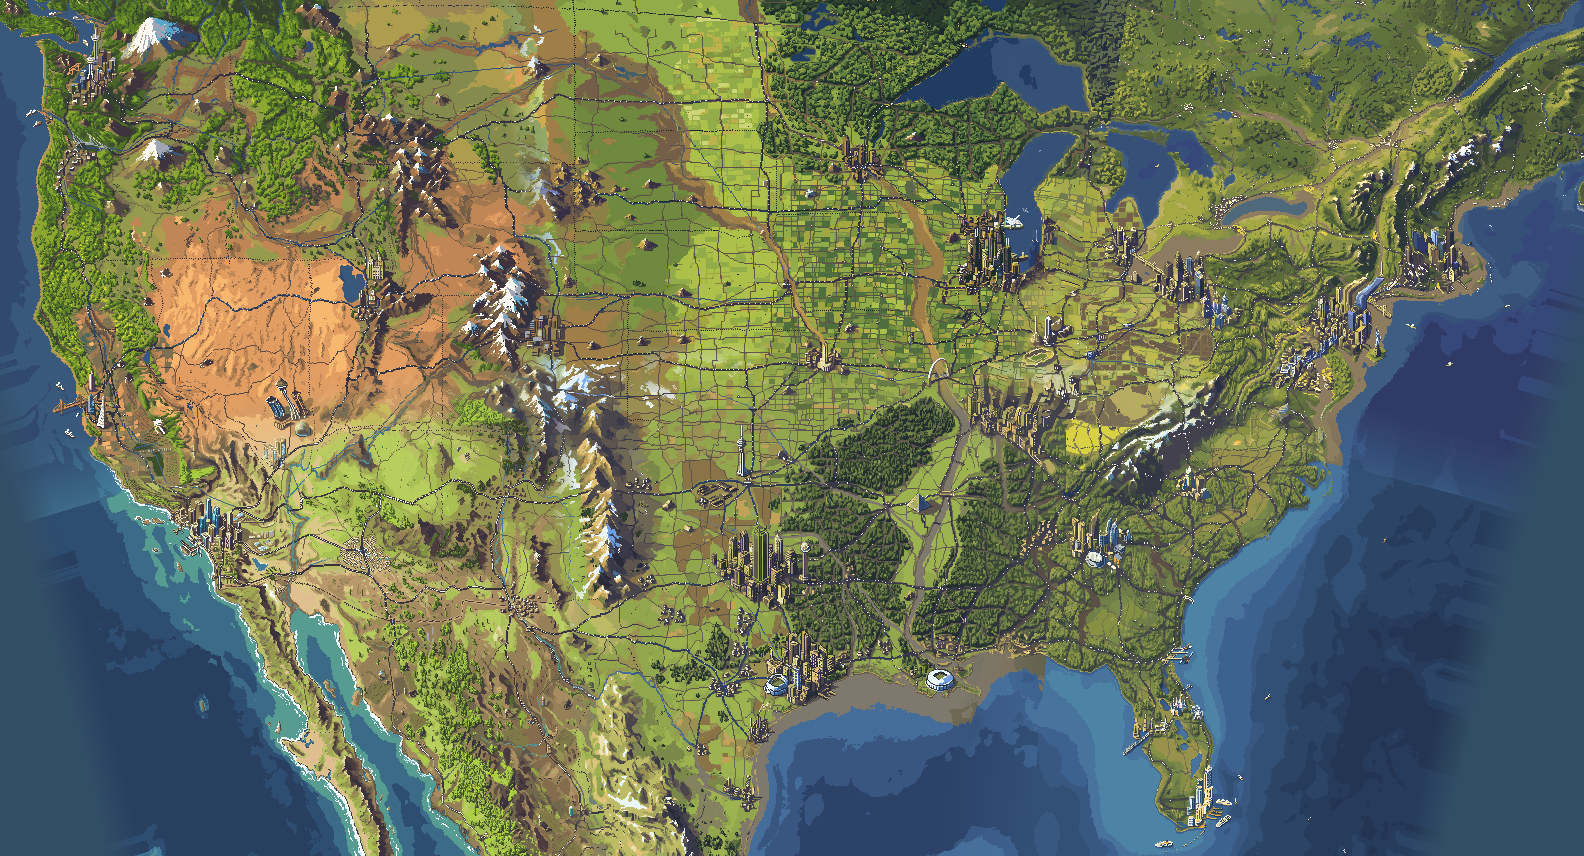
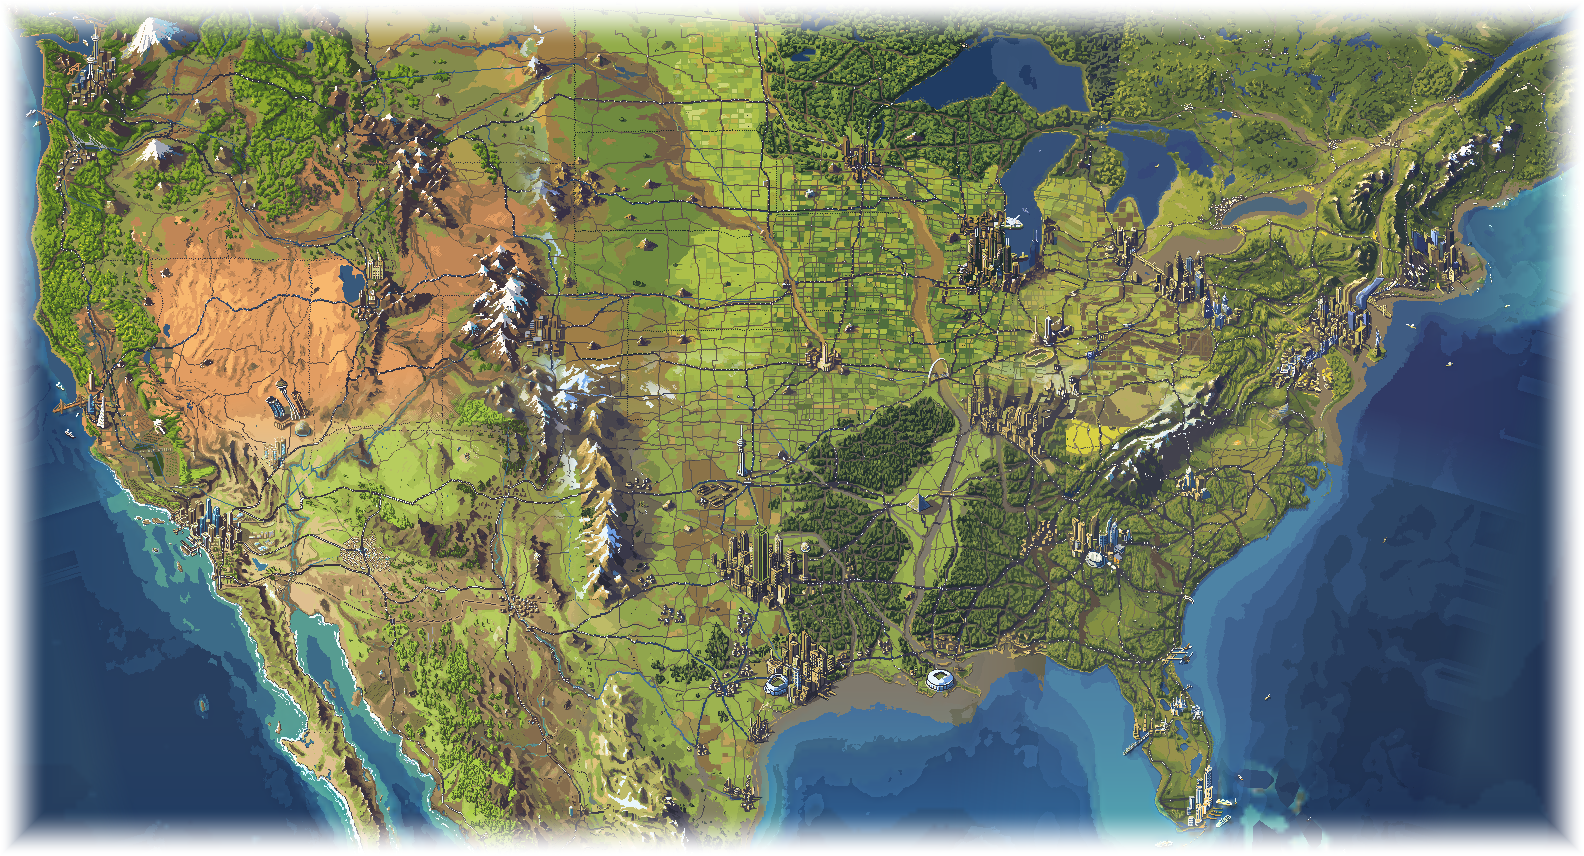
Map: a painted surround per season, so a phone at Fit shows sea and land to its edges
tools/map-surround.py traces the coasts beyond the map (the Pacific and Atlantic, the Gulf,
the Caribbean and the Bahamas' banks, southern Canada with Hudson Bay, Mexico and Central
America) at quarter scale, has PixelLab paint each season over that base, and holds the
painter's greens to the map's own. Each surround-<season>.png ships at the map's own scale,
2000×1784 (each painted pixel four across and down), so mapview draws it one to one with
the map centred in it. The l0 maps' edges are feathered over 48 px and their pale sea haze
drawn toward the surround over 170 px; mapview now draws the surround wherever that faded
edge is on screen too, which includes the panning limits when zoomed in. The untouched
paintings, bases and painter outputs are kept in surround-src/.

Changed region(s): [[0.0, 0.0, 1.0, 1.0]]

diff --git a/apps/web/src/mapview.ts b/apps/web/src/mapview.ts
@@ -459,9 +459,11 @@ export function drawMap(now: number): void {
   const lvl = mapLevel(season, k);
   ctx.fillStyle = lvl ? edgeShade(lvl.img) : PAL.seaD;
   ctx.fillRect(0, 0, W, H);
-  // The world past the map's edge (Graphics' surround, per season), wherever the map doesn't reach the window's edge.
+  // The world past the map's edge (Graphics' surround, per season), wherever the map doesn't reach the window's edge;
+  // the painting's last 48 px fade into it (tools/map-surround.py), so it's under them too, even at the panning limits.
   const sur = mapSurround(season);
-  if (sur && (panX < 0 || panY < 0 || art.W * k - panX < W || art.H * k - panY < H)) {
+  const fade = 48 * k;
+  if (sur && (panX < fade || panY < fade || art.W * k - panX < W + fade || art.H * k - panY < H + fade)) {
     ctx.imageSmoothingEnabled = !Number.isInteger(k);
     ctx.setTransform(k, 0, 0, k, -panX, -panY);
     ctx.drawImage(sur, -(sur.width - MAP_W) / 2, -(sur.height - MAP_H) / 2);

diff --git a/apps/web/tools/map-surround.py b/apps/web/tools/map-surround.py
@@ -1,0 +1,347 @@
+#!/usr/bin/env python3
+"""The world around the map (Jeff, 2026-11-02: "When zoomed all the way out we should see more of the world / ocean,
+not a blank gray background").
+
+The painted map (assets/map/l0-<season>.png, 1584 × 856) ends at the lower 48's frame, so a tall phone at Fit shows
+grey above and below it. This paints the surround, one picture per season at a quarter of the map's resolution (it's
+the edge of the view, seen small): the Pacific and the Atlantic, the Gulf of Mexico and the Caribbean with Cuba,
+Hispaniola, Jamaica, Puerto Rico and the Bahamas on their shallow banks, Mexico and Central America to the south,
+Canada with Hudson Bay and Labrador to the north. The coasts are traced here, coarse (tools' geo.ts has only the US and
+its rim), in the map's own projection; the painted map goes in the middle, shrunk; PixelLab's Pro editor repaints the
+whole in the map's style and season, keeping the coasts; then the rim right round the map is eased back into the map's
+own edge pixels so the seam doesn't show: the map's own edge is feathered (its last 48 pixels fade out, alpha baked
+into assets/map/l0-<season>.png), so where the two meet the surround shows through and nothing draws a line.
+
+The result registers to the map like this: painted pixel (bx, by) covers map pixels (4·bx − 208 … 4·bx − 205,
+4·by − 464 … 4·by − 461). It ships at the map's own scale, each painted pixel four across and four down (500 × 446 →
+2000 × 1784), so mapview draws it one to one at map coordinates (−208, −464), the map centred in it with equal
+margins, behind the map, which covers its middle exactly.
+
+  map-surround.py <season> [--seed N] [--base-only] [--feather-only]
+      → assets/map/surround-<season>.png (the base and the editor's output in assets/map/surround-src), and the map's
+        feathered edge
+"""
+import importlib.util
+import os
+import re
+import subprocess
+import sys
+
+import numpy as np
+
+HERE = os.path.dirname(os.path.abspath(__file__))
+spec = importlib.util.spec_from_file_location("pm", os.path.join(HERE, "paint-map.py"))
+pm = importlib.util.module_from_spec(spec)
+spec.loader.exec_module(pm)  # type: ignore[union-attr]
+
+MAPS = os.path.join(HERE, "..", "assets", "map")
+GEO = os.path.join(HERE, "..", "src", "geo.ts")
+W0, H0 = 1584, 856  # the map
+SCALE = 4
+MX, MY = 208, 464  # the surround's reach beyond the map, in map pixels
+BW, BH = (W0 + 2 * MX) // SCALE, (H0 + 2 * MY) // SCALE  # 500 × 446
+
+
+def geo(name: str) -> list:
+    s = open(GEO).read()
+    m = re.search(r"export const " + name + r"[^=]*=\s*\[(.*?)\];", s, re.S)
+    return [(float(a), float(b)) for a, b in re.findall(r"\[\s*(-?[\d.]+)\s*,\s*(-?[\d.]+)\s*\]", m.group(1))]
+
+
+def projection():
+    """map.ts's fitProjection for the 1584 × 856 map, into surround pixels."""
+    rad = np.pi / 180
+    kx = np.cos(37.5 * rad)
+    flat = lambda lon, lat: ((lon * rad + 96 * rad) * kx, lat * rad)
+    ring = geo("PACIFIC") + geo("MEX_BORDER") + geo("GULF_ATLANTIC") + geo("CANADA_BORDER")
+    pts = [flat(lo, la) for lo, la in ring]
+    minx, maxx = min(p[0] for p in pts), max(p[0] for p in pts)
+    miny, maxy = min(p[1] for p in pts), max(p[1] for p in pts)
+    margin = max(6, round(min(W0, H0) * 0.03))
+    scale = min((W0 - 2 * margin) / (maxx - minx), (H0 - 2 * margin) / (maxy - miny))
+    offx = (W0 - (maxx - minx) * scale) / 2
+    offy = (H0 - (maxy - miny) * scale) / 2
+
+    def project(lon, lat):
+        x, y = flat(lon, lat)
+        return ((offx + (x - minx) * scale + MX) / SCALE, (offy + (maxy - y) * scale + MY) / SCALE)
+
+    return project
+
+
+# Coasts beyond geo.ts, traced coarse (lon, lat).
+NORTH_PACIFIC = [(-150, 75), (-140, 60), (-136.5, 58.5), (-134, 56.5), (-131.5, 54.5)]
+SOUTH_PACIFIC = [(-106.4, 23.2), (-105.6, 21.9), (-105.3, 20.6), (-104.9, 19.4), (-104.3, 19.1), (-103.4, 18.3), (-101.9, 17.8),
+                 (-100.5, 17.2), (-99.9, 16.8), (-98.5, 16.3), (-97.0, 15.8), (-96.0, 15.7), (-95.1, 16.2), (-94.0, 16.2), (-93.2, 15.6),
+                 (-92.2, 14.6), (-91.3, 13.9), (-90.0, 13.9), (-89.2, 13.5), (-88.0, 13.2), (-87.4, 13.0), (-86.7, 12.2), (-86.0, 11.6),
+                 (-85.7, 11.1), (-85.9, 10.6), (-85.7, 9.9), (-84.6, 9.5), (-83.5, 8.5), (-82.9, 8.0), (-82.5, 4.0), (-77.0, 4.0),
+                 (-77.5, 8.8), (-79.5, 9.6), (-81.5, 9.0), (-82.8, 9.5)]
+CARIBBEAN = [(-83.7, 10.9), (-83.7, 11.6), (-83.6, 12.5), (-83.5, 13.6), (-83.3, 14.5), (-83.2, 15.0), (-84.0, 15.4), (-85.0, 15.9),
+             (-86.5, 15.8), (-87.8, 15.8), (-88.2, 15.7), (-88.5, 16.3), (-88.2, 17.0), (-88.3, 17.9), (-88.0, 18.5), (-87.6, 19.5),
+             (-87.4, 20.3), (-86.8, 21.2), (-87.1, 21.6), (-88.2, 21.5), (-89.5, 21.3), (-90.4, 21.1), (-90.5, 20.0), (-90.6, 19.4),
+             (-91.5, 18.6), (-92.7, 18.6), (-94.0, 18.3), (-94.8, 18.6), (-95.8, 18.8), (-96.4, 19.5), (-96.9, 20.4), (-97.4, 21.2),
+             (-97.8, 22.1), (-97.8, 23.0), (-97.8, 24.2), (-97.5, 25.0)]
+ATLANTIC_CANADA = [(-66.0, 45.3), (-65.7, 44.0), (-65.4, 43.5), (-63.5, 44.4), (-61.5, 45.0), (-60.0, 45.8), (-61.0, 47.0),
+                   (-64.5, 47.8), (-64.2, 48.9), (-66.5, 49.2), (-68.7, 48.6), (-70.8, 47.1), (-69.8, 48.2), (-67.5, 49.4),
+                   (-65.0, 50.2), (-61.0, 50.2), (-59.0, 50.6), (-57.2, 51.4), (-55.8, 52.3), (-56.5, 53.8), (-58.5, 54.5),
+                   (-60.5, 55.8), (-61.6, 56.9), (-62.4, 58.0), (-63.5, 59.0), (-64.6, 60.3), (-65.0, 61.0), (-60.0, 75.0)]
+CONTINENT = (NORTH_PACIFIC + geo("BC_COAST") + geo("PACIFIC") + geo("MEXICO")[:-3] + SOUTH_PACIFIC + CARIBBEAN
+             + geo("GULF_ATLANTIC") + ATLANTIC_CANADA)
+HUDSON = [(-80.0, 51.3), (-79.0, 51.6), (-78.8, 52.8), (-79.0, 54.4), (-77.2, 55.6), (-76.8, 57.0), (-77.4, 58.3), (-78.0, 59.5),
+          (-77.6, 60.6), (-78.2, 62.2), (-77.0, 63.5), (-78.0, 66.0), (-90.0, 66.0), (-93.5, 64.0), (-94.0, 62.0), (-94.8, 60.0),
+          (-94.2, 58.8), (-92.5, 57.2), (-90.0, 57.0), (-88.0, 56.5), (-85.0, 55.3), (-82.3, 55.2), (-82.2, 53.0), (-81.4, 52.2)]
+WINNIPEG = [(-96.8, 50.4), (-96.3, 51.5), (-97.0, 52.8), (-98.0, 53.8), (-99.3, 53.4), (-98.5, 52.0), (-97.2, 50.6)]
+ISLANDS = {
+    "cuba": [(-84.95, 21.86), (-84.0, 22.5), (-83.0, 22.95), (-82.0, 23.15), (-80.6, 23.1), (-79.3, 22.4), (-77.7, 21.8), (-76.0, 21.2),
+             (-74.5, 20.3), (-74.1, 20.2), (-75.6, 19.9), (-77.5, 19.85), (-77.1, 20.6), (-79.6, 21.6), (-81.2, 22.0), (-83.5, 22.2),
+             (-84.4, 21.8)],
+    "hispaniola": [(-74.45, 18.45), (-73.4, 19.65), (-72.8, 19.9), (-71.6, 19.9), (-70.0, 19.7), (-69.0, 19.3), (-68.35, 18.6),
+                   (-69.0, 18.4), (-70.0, 18.2), (-71.1, 17.6), (-72.0, 18.1), (-73.4, 18.2)],
+    "jamaica": [(-78.35, 18.45), (-77.4, 18.5), (-76.35, 18.15), (-76.8, 17.9), (-77.8, 17.85)],
+    "puerto rico": [(-67.25, 18.5), (-65.6, 18.45), (-65.6, 18.0), (-67.2, 17.95)],
+    "grand bahama": [(-78.98, 26.75), (-77.9, 26.65), (-77.95, 26.5), (-78.95, 26.55)],
+    "abaco": [(-77.25, 26.95), (-76.95, 26.4), (-77.2, 25.9), (-77.45, 26.4)],
+    "andros": [(-78.25, 25.2), (-77.7, 24.9), (-77.6, 24.2), (-77.9, 23.8), (-78.3, 24.4)],
+    "eleuthera": [(-76.7, 25.5), (-76.1, 25.1), (-76.15, 24.65), (-76.4, 25.0)],
+    "long island": [(-75.4, 23.6), (-75.0, 23.0), (-74.85, 23.1), (-75.25, 23.7)],
+    "inagua": [(-73.75, 21.2), (-73.05, 21.15), (-73.3, 20.9)],
+    "haida gwaii": [(-133.1, 54.2), (-131.8, 53.9), (-131.0, 52.2), (-131.5, 52.0), (-132.6, 53.2)],
+    "newfoundland": [(-59.4, 47.6), (-58.0, 48.4), (-58.9, 49.2), (-57.4, 50.8), (-55.6, 51.6), (-55.4, 50.0), (-53.6, 49.2),
+                     (-52.6, 47.6), (-53.6, 46.7), (-55.9, 47.1), (-57.6, 47.6)],
+    "pei": [(-64.4, 46.6), (-63.0, 46.5), (-62.0, 46.4), (-62.5, 46.1), (-64.0, 46.2)],
+}
+BANKS = [  # shallow water, turquoise
+    [(-79.3, 25.9), (-78.9, 25.6), (-77.9, 25.3), (-76.6, 23.8), (-75.5, 22.8), (-75.6, 22.3), (-77.5, 22.5), (-78.9, 23.1),
+     (-80.0, 23.8), (-79.4, 24.6)],
+    [(-79.2, 27.1), (-77.0, 27.3), (-76.8, 26.2), (-78.8, 26.3)],
+    [(-76.7, 25.7), (-75.9, 25.4), (-74.9, 22.9), (-75.6, 22.9), (-76.4, 24.5)],
+    [(-73.9, 21.4), (-72.9, 21.3), (-72.9, 20.8), (-73.9, 20.8)],
+]
+SEASON = {
+    "winter": "deep winter: snow lies over Canada and the northern woods, Hudson Bay and the northern lakes frozen white, "
+              "bare grey forest, dry brown grass and snow-dusted mountains in northern Mexico, green tropical forest in the far "
+              "south, low cold blue light",
+    "spring": "spring: Canada's forests fresh green with the last snow on the far northern hills, lakes thawing, Mexico "
+              "greening after rain, bright tropical green in the south, soft clear light",
+    "summer": "high summer: deep green boreal forest across Canada, blue lakes, golden dry hills and desert in northern Mexico, "
+              "lush green jungle in Central America and the islands, bright warm light",
+    "autumn": "autumn: Canada's forests orange, red and gold among dark green pines, the first snow on the far north, dry "
+              "tawny hills in Mexico, green in the tropical south, warm low light",
+}
+LAND = {  # base colours: Canada, northern Mexico, the tropics
+    "winter": ((205, 214, 228), (176, 146, 110), (70, 112, 70)),
+    "spring": ((88, 124, 78), (170, 150, 100), (66, 122, 66)),
+    "summer": ((62, 104, 60), (190, 156, 104), (60, 116, 60)),
+    "autumn": ((168, 104, 52), (182, 140, 94), (68, 114, 64)),
+}
+SEA = np.array([40, 56, 92], float)
+DEEP = np.array([28, 36, 66], float)
+SHALLOW = np.array([72, 150, 166], float)
+
+
+def fill(mask: np.ndarray, poly, project) -> None:
+    """A polygon (lon, lat) filled into a boolean mask, by even-odd scanlines at pixel centres."""
+    pts = [project(lo, la) for lo, la in poly]
+    h, w = mask.shape
+    for y in range(h):
+        cy = y + 0.5
+        xs = []
+        for (x0, y0), (x1, y1) in zip(pts, pts[1:] + pts[:1]):
+            if (y0 <= cy) != (y1 <= cy):
+                xs.append(x0 + (cy - y0) / (y1 - y0) * (x1 - x0))
+        xs.sort()
+        for a, b in zip(xs[::2], xs[1::2]):
+            l, r = max(0, int(np.ceil(a - 0.5))), min(w - 1, int(np.floor(b - 0.5)))
+            if r >= l:
+                mask[y, l : r + 1] ^= True
+
+
+def base(season: str) -> tuple:
+    project = projection()
+    land = np.zeros((BH, BW), bool)
+    fill(land, CONTINENT, project)
+    for poly in ISLANDS.values():
+        isle = np.zeros_like(land)
+        fill(isle, poly, project)
+        land |= isle
+    water = np.zeros_like(land)
+    for poly in (HUDSON, WINNIPEG):
+        fill(water, poly, project)
+    land &= ~water
+    banks = np.zeros_like(land)
+    for poly in BANKS:
+        b = np.zeros_like(land)
+        fill(b, poly, project)
+        banks |= b
+    ys, xs = np.mgrid[0:BH, 0:BW]
+    rng = np.random.default_rng(7)
+    grain = rng.normal(0, 1, (BH, BW))
+    # Sea: deeper away from the coasts (a cheap distance, by repeated growing).
+    near = land.copy()
+    dist = np.full(land.shape, 12.0)
+    for d in range(12):
+        dist[near & (dist > d)] = d
+        g = near.copy()
+        g[1:] |= near[:-1]; g[:-1] |= near[1:]; g[:, 1:] |= near[:, :-1]; g[:, :-1] |= near[:, 1:]
+        near = g
+    f = (np.clip(dist, 0, 12) / 12)[..., None]
+    img = SEA * (1 - f) + DEEP * f + grain[..., None] * 3
+    img[banks & ~land] = SHALLOW + grain[banks & ~land][:, None] * 6
+    # Land: Canada above the map's latitude band, the tropics below 20° N, northern Mexico between.
+    north, mex, trop = (np.array(c, float) for c in LAND[season])
+    lat = 49.8 - (ys - (MY / SCALE)) * (26.1 / (H0 / SCALE))  # latitude by row, near enough
+    t = np.clip((lat - 17.0) / 6.0, 0, 1)[..., None]
+    southland = trop * (1 - t) + mex * t
+    landcol = np.where((lat > 40)[..., None], north, southland) + grain[..., None] * 9
+    img = np.where(land[..., None], landcol, img)
+    if season == "winter":
+        img[water] = np.array([214, 222, 236]) + grain[water][:, None] * 4  # frozen
+    else:
+        img[water] = SEA + grain[water][:, None] * 3
+    out = np.zeros((BH, BW, 4), np.uint8)
+    out[..., :3] = np.clip(img, 0, 255)
+    out[..., 3] = 255
+    # The painted map in the middle, shrunk.
+    m = pm.read_png(os.path.join(MAPS, f"l0-{season}.png"))
+    small = m.reshape(H0 // SCALE, SCALE, W0 // SCALE, SCALE, 4).mean((1, 3)).round().astype(np.uint8)
+    x0, y0 = MX // SCALE, MY // SCALE
+    out[y0 : y0 + small.shape[0], x0 : x0 + small.shape[1]] = small
+    return out, small
+
+
+FEATHER = 48  # map pixels over which the map's edge fades into the surround
+
+
+HAZE = 170  # map pixels: how far in from its frame the painting's sea fades pale
+
+
+def feather(season: str, painted: np.ndarray) -> None:
+    """The map's edge made to meet the surround: over the sea in its outer HAZE pixels the painting's pale frame haze
+    is drawn toward the surround's sea (the painted texture kept, the land left alone), and its last FEATHER pixels fade
+    out (alpha from the distance to the edge, so it comes out the same however often it runs). Reads the untouched
+    painting from surround-src/l0-<season>.png, saved there the first time."""
+    path = os.path.join(MAPS, f"l0-{season}.png")
+    keep = os.path.join(MAPS, "surround-src", f"l0-{season}.png")
+    if not os.path.exists(keep):
+        pm.write_png(keep, pm.read_png(path))
+    m = pm.read_png(keep).copy()
+    ys, xs = np.mgrid[0:H0, 0:W0]
+    d = np.minimum(np.minimum(xs, W0 - 1 - xs), np.minimum(ys, H0 - 1 - ys)).astype(float)
+    # Where the sea is: off the continent and its islands, traced in map pixels.
+    project = projection()
+    to_map = lambda lon, lat: tuple(v * SCALE - o for v, o in zip(project(lon, lat), (MX, MY)))
+    land = np.zeros((H0, W0), bool)
+    fill(land, CONTINENT, to_map)
+    for poly in ISLANDS.values():
+        isle = np.zeros_like(land)
+        fill(isle, poly, to_map)
+        land |= isle
+    grown = land.copy()
+    for _ in range(6):  # keep clear of the coasts
+        g = grown.copy()
+        g[1:] |= grown[:-1]; g[:-1] |= grown[1:]; g[:, 1:] |= grown[:, :-1]; g[:, :-1] |= grown[:, 1:]
+        grown = g
+    sea = ~grown & (d < HAZE)
+    sur = painted[..., :3].astype(float)
+    sx = np.clip((xs + MX) / SCALE - 0.5, 0, BW - 1.001)
+    sy = np.clip((ys + MY) / SCALE - 0.5, 0, BH - 1.001)
+    ix, iy = sx.astype(int), sy.astype(int)
+    fx, fy = (sx - ix)[..., None], (sy - iy)[..., None]
+    under = (sur[iy, ix] * (1 - fx) * (1 - fy) + sur[iy, ix + 1] * fx * (1 - fy) + sur[iy + 1, ix] * (1 - fx) * fy
+             + sur[iy + 1, ix + 1] * fx * fy)
+    w = (np.clip(1 - d / HAZE, 0, 1) ** 1.4)[..., None] * 0.9
+    # The texture stays: only the colour's local level moves, by the difference between the surround and the
+    # painting's own neighbourhood average, weighted.
+    mine = m[..., :3].astype(float)
+    r = 7
+    c = np.pad(mine, ((r + 1, r), (r + 1, r), (0, 0)), mode="edge").cumsum(0).cumsum(1)
+    k = 2 * r + 1
+    avg = (c[k:, k:] - c[:-k, k:] - c[k:, :-k] + c[:-k, :-k]) / (k * k)
+    shift = (under - avg) * w
+    m[..., :3] = np.where(sea[..., None], np.clip(mine + shift, 0, 255), mine).round().astype(np.uint8)
+    t = np.clip((d + 0.5) / FEATHER, 0, 1)
+    m[..., 3] = (t * t * (3 - 2 * t) * 255).round().astype(np.uint8)
+    pm.write_png(path, m)
+
+
+def tame(season: str, painted: np.ndarray) -> np.ndarray:
+    """The painter's greens held to the map's own: no green in the surround more saturated than the season's map uses
+    (summer's Yucatán came back a loud lime), its lightness kept."""
+    m = pm.read_png(os.path.join(MAPS, "surround-src", f"l0-{season}.png"))[..., :3].astype(float)
+    chroma = lambda a: a.max(-1) - a.min(-1)
+    green = lambda a: a[..., 1] - np.maximum(a[..., 0], a[..., 2]) > 0.3 * chroma(a)  # not the sea's cyan glints
+    cap = np.percentile(chroma(m)[green(m)], 99.5)
+    out = painted.copy()
+    px = out[..., :3].astype(float)
+    grey = px.mean(-1, keepdims=True)
+    k = np.where(green(px) & (chroma(px) > cap), cap / np.maximum(chroma(px), 1), 1)[..., None]
+    out[..., :3] = (grey + (px - grey) * k).round().clip(0, 255).astype(np.uint8)
+    return out
+
+
+def ship(season: str, painted: np.ndarray) -> None:
+    """The surround at the map's own scale, each painted pixel SCALE across and down, and the map's edge fed into it."""
+    pm.write_png(os.path.join(MAPS, f"surround-{season}.png"), np.repeat(np.repeat(painted, SCALE, 0), SCALE, 1))
+    feather(season, painted)
+
+
+def ease(painted: np.ndarray, small: np.ndarray) -> np.ndarray:
+    """(Unused since the map's edge is feathered: the map's own shrunk pixels back in the middle, eased outward.)"""
+    out = painted[..., :4].copy()
+    out[..., 3] = 255
+    x0, y0 = MX // SCALE, MY // SCALE
+    h, w = small.shape[:2]
+    for d in range(1, 7):
+        k = 1 - d / 7
+        for (ya, yb, xa, xb, src) in (
+            (y0 - d, y0 - d + 1, x0, x0 + w, small[0:1]),
+            (y0 + h + d - 1, y0 + h + d, x0, x0 + w, small[-1:]),
+            (y0, y0 + h, x0 - d, x0 - d + 1, small[:, 0:1]),
+            (y0, y0 + h, x0 + w + d - 1, x0 + w + d, small[:, -1:]),
+        ):
+            cur = out[ya:yb, xa:xb, :3].astype(float)
+            out[ya:yb, xa:xb, :3] = (cur * (1 - k) + src[..., :3].astype(float) * k).round().astype(np.uint8)
+    out[y0 : y0 + h, x0 : x0 + w] = small
+    return out
+
+
+def main() -> None:
+    season = sys.argv[1]
+    if "--feather-only" in sys.argv:
+        out = os.path.join(MAPS, "surround-src", f"painted-{season}.png")
+        painted = pm.read_png(out)
+        painted[..., 3] = 255
+        ship(season, tame(season, painted))
+        return
+    seed = None
+    if "--seed" in sys.argv:
+        seed = sys.argv[sys.argv.index("--seed") + 1]
+    img, small = base(season)
+    os.makedirs(os.path.join(MAPS, "surround-src"), exist_ok=True)
+    src = os.path.join(MAPS, "surround-src", f"base-{season}.png")
+    pm.write_png(src, img)
+    if "--base-only" in sys.argv:
+        print(f"{src}: {BW}×{BH}")
+        return
+    desc = ("repaint this isometric tycoon game map of North America around the United States, keeping every coastline, "
+            "island, bay, lake and shallow bank exactly where it is and in the same highly detailed HD painterly pixel art "
+            "shading with layered depth and a saturated palette as the United States in the middle, which stays as it is: "
+            "the deep blue Pacific Ocean to the west, the Atlantic to the east, the Gulf of Mexico and the Caribbean Sea with "
+            "Cuba, Hispaniola, Jamaica and Puerto Rico, the turquoise shallow banks of the Bahamas with their small islands, "
+            "Mexico and Central America to the south, Canada with Hudson Bay, Lake Winnipeg, Labrador and Newfoundland to the "
+            f"north; the season is {SEASON[season]}. Gentle waves and a soft darker vignette toward the open ocean. Never "
+            "write any words, names, letters, borders, grid lines or labels anywhere.")
+    out = os.path.join(MAPS, "surround-src", f"painted-{season}.png")
+    cmd = [sys.executable, os.path.join(HERE, "pixellab.py"), "edit", src, desc, out]
+    if seed:
+        cmd += ["--seed", seed]
+    subprocess.run(cmd, check=True)
+    painted = pm.read_png(out)
+    assert painted.shape[:2] == (BH, BW), painted.shape
+    painted[..., 3] = 255
+    ship(season, tame(season, painted))
+    print(f"surround-{season}.png: {BW * SCALE}×{BH * SCALE}, drawn one to one at map (-{MX}, -{MY})")
+
+
+if __name__ == "__main__":
+    main()
